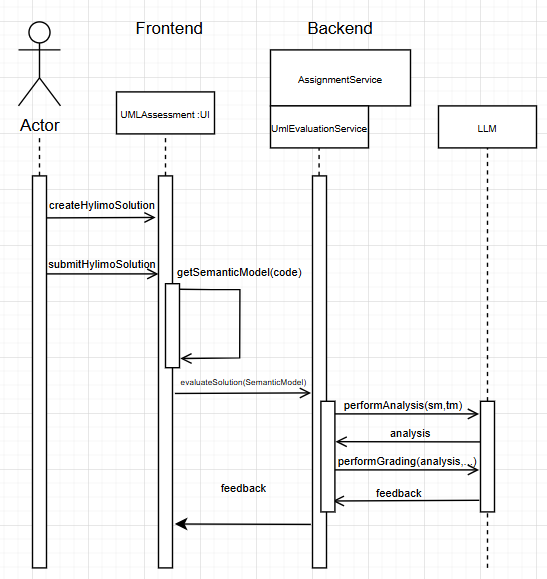
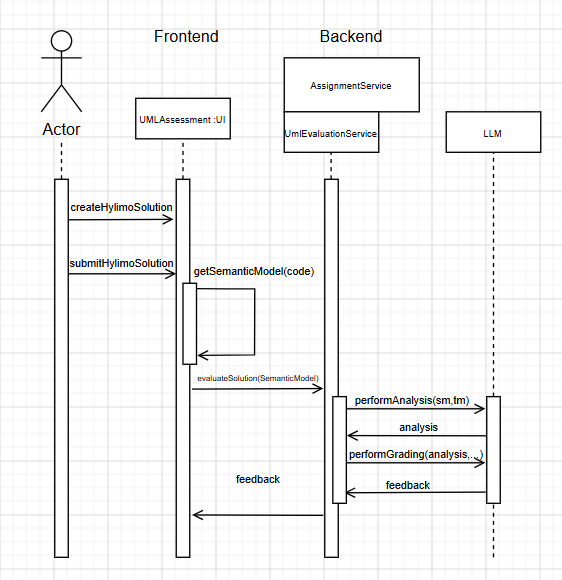
Work on doc

diff --git a/dev-manuals/uml-assignment/doc.md b/dev-manuals/uml-assignment/doc.md
@@ -11,6 +11,9 @@ This paper consists of:
 - Functionalities (Developres + Lecturer Guide)
 - Future Work
 
+
+- prompt wie bei ai tutor orientieren
+
 # Requirements
 Based on the objectives of this research project, the following section defines the high-level requirements for integrating automated UML assessment into Meitrex using HyLiMo.
 
@@ -53,11 +56,109 @@ The sequence diagram illustrates, in a simplified manner, how a student’s UML 
 
 ![Sequence Diagram of the Evaluation](img/sequence_eval.png)
 
-### Semantic Model (Sequence Diagram) ???
-TBD
 
 ### Prompt Engineering
-TBD
+
+<details>
+  <summary>Filename: 'uml_analysis'</summary>
+
+```txt
+### ROLE
+You are an Experienced Software Engineering Professor and UML Evaluator.
+Your task is to compare the **Reference Solution** against the **Student Submission**, but you must prioritize *theoretical correctness* and *semantic meaning* over strict syntactic matching.
+
+### EQUIVALENCE RULES (CRITICAL - DO NOT PENALIZE FOR THESE)
+1. **Data Types:** Treat semantically similar types as identical (e.g., `int` == `Integer`, `String` == `string`, `Long` == `long`, `boolean` == `Boolean`).
+2. **Association Labels:** Focus on the *meaning* of the relationship, not the exact string. (e.g., "owns", "has", "contains", and "is part of" are effectively equivalent if the multiplicity and direction are correct).
+3. **Architectural Variations:** Students may solve domain problems slightly differently.
+   - Example 1: Using an `Enum` for a property vs. a dedicated Class with constraints.
+   - Example 2: Using an `abstract class` instead of an `interface`.
+   - If the student's alternative logically fulfills the same domain requirement as the reference, accept it as CORRECT.
+
+### DATA TO ANALYZE
+- **Reference Solution:**
+---
+{{tutorModel}}
+---
+- **Student Submission:**
+---
+{{studentModel}}
+---
+
+### CATEGORIZATION STRICTNESS
+- **correctElements:** List all correctly implemented details. If a student used an acceptable equivalent (e.g., `int` instead of `Integer`), list it here as correct.
+- **missingElements:** List items that are COMPLETELY absent and have no logical equivalent in the student's code.
+- **semanticErrors:** List items that are actively WRONG (e.g., a composition used where an inheritance was clearly required, or fundamentally backward multiplicities).
+
+### CRITICAL OUTPUT RULES
+- Do NOT deduct points or list errors for layout attributes (e.g., `pos`, `vdist`, `layout`).
+- Output ONLY valid JSON.
+- Every element analyzed MUST be present in exactly one of the three arrays.
+
+**Output Format (JSON):**
+{
+"correctElements": ["List specific correct elements and accepted equivalents."],
+"semanticErrors": ["List actively INCORRECT structural logic."],
+"missingElements": ["List completely ABSENT elements."],
+"isSemanticallyValid": <boolean>,
+"analysisSummary": "A concise summary derived strictly from the lists above."
+}
+```
+
+</details>
+
+The 'uml_analysis' evaluates student UML diagrams against a reference solution by focusing on semantic correctness. It identifies correct elements, missing parts, and real structural errors, and outputs a structured JSON analysis.
+
+
+<details>
+  <summary>Filename: 'uml_grading'</summary>
+
+```txt
+### ROLE
+You are a supportive Software Architecture Tutor. Your goal is to transform technical analysis into constructive HTML feedback and calculate a final grade based strictly on the provided rubric.
+
+### GRADING LOGIC (FOLLOW STRICTLY)
+- **Total Possible:** {{maxPoints}} points.
+- **Passing Threshold:** {{passingThreshold}} points.
+- **Reference Rubric:** {{gradingRules}}
+
+**Calculation Hierarchy:**
+1. Start at {{maxPoints}} points.
+2. Look at the items in `semanticErrors` and `missingElements`.
+3. For EACH error, find the corresponding penalty in the **Reference Rubric**.
+4. Subtract the penalty from the current score. (e.g., If the rubric says "-0.25P per missing class" and there are 2 missing classes, subtract 0.5P).
+5. DO NOT deduct points for anything not explicitly listed in the errors arrays.
+6. If the final score drops below 0, set it to 0.
+
+### PEDAGOGICAL GUIDELINES
+1. **The "Sandwich" Method:** Start with specific praise (correctElements), address gaps (semanticErrors/missingElements), and end with motivation.
+2. **Spoiler Policy:** The 'Show Solution' flag is: {{showSolution}}
+   - **If FALSE:** Provide Socratic hints (e.g., "Check the relationship multiplicity."). DO NOT give the exact answer.
+   - **If TRUE:** You may explicitly state the correct answer.
+3. **Mandatory Sign-off:** You MUST conclude the HTML string exactly with: `<br><br>Best Regards,<br>Your AI Tutor`
+
+### DATA FOR REPORT
+- **Valid Graph:** {{isValid}}
+- **Things Done Well:** {{correctElements}}
+- **Logic Errors:** {{semanticErrors}}
+- **Missing Items:** {{missingElements}}
+
+### TECHNICAL CONSTRAINTS
+- **Output Format:** STRICT JSON containing an HTML string and an integer/float.
+- **Allowed HTML:** `<b>`, `<i>`, `<p>`, `<br>`, `<ul>`, `<li>`. No Markdown, no CSS.
+- **No Score in Text:** DO NOT state the points inside the HTML feedback string.
+
+### OUTPUT SCHEMA
+{
+"feedback": "<p>Your HTML feedback here...</p><br><br>Best Regards,<br>Your AI Tutor",
+"points": <calculated_number>
+}
+```
+
+</details>
+
+The 'uml_grading' uses the analysis output to generate constructive HTML feedback and calculate a final score. It applies strict grading rules, provides pedagogical feedback, and ensures a structured JSON result with points and feedback.
+
 
 # Evaluation
 ## Goals
@@ -106,15 +207,31 @@ In the pop-up window, similar to other assignments, the metadata can be filled i
 The UML Assignment creator includes a rich text editor where the task description can be written. In addition, grading criteria can be defined to support the LLM-based evaluation of the diagram.
 In the settings, you can set the total number of points and the passing threshold, as well as choose whether the model solution should be displayed. The tutor can also provide a HyLiMo reference solution, which is then used as the basis for the LLM’s evaluation.
 
-#### Modify UML assignment
-#### UML Assignment Overview
 
+#### UML Assignment Overview
+When a lecturer selects the assignment, they will see an overview of the entire assignment with all information related to the created task. They can then edit the assignment, which opens a pop-up window where changes can be made.
+
+![UML Assignment Overview](img/lecturer_exercise_overview.png)
+
+They can also navigate to the submissions tab to get an overview of the solutions submitted by students.
+- TBD Bild
 
 ## User Guide for Student
 ### Introduction
 For UML assignments, students complete tasks within Hylimo by creating their own UML models. Their submissions are automatically evaluated, allowing them to receive feedback.
 For more information about HyLiMo check out: https://hylimo.github.io/docs/docs.html
 
-
 #### Functionalities
 #### Work on UML Assessment
+Students can open the UML assignment just like any other assignment. Once opened, they can work on it using the built-in editor.
+
+
+![Work on Uml Assignment Uml Data](img/students_uml_assignment.png)
+
+
+At the top, you can see the task description. Below that, there are options to move between attempts, save the work, or submit the solution. After submitting, a new attempt can be started, either empty or based on a previous one. The main part of the screen is the Hylimo editor, where students work on their solution. The editor can also be opened in full-screen mode for easier editing.
+
+![Work on Uml Assignment Uml Data](img/hylimo_editor_fullscreen.png)
+
+
+#### UML Evaluation

diff --git a/dev-manuals/index.rst b/dev-manuals/index.rst
@@ -16,4 +16,5 @@ Developer Manuals
    ./scalability-testing/index
    ./services/index
    ./settings/index
+   ./uml-assignment/index
    